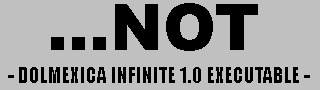
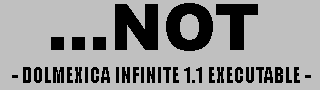
[Release] Dolmexica Infinite Version 1.1

Changed region(s): [[0.0, 0.7333, 0.9375, 0.9333]]

diff --git a/docs/dolmexica.html b/docs/dolmexica.html
@@ -157,7 +157,7 @@ code, tt {
 
 <body>
 
-<center><font size=+3>Dolmexica Infinite<br>1.0</font><br>
+<center><font size=+3>Dolmexica Infinite<br>1.1</font><br>
 <br>
 presented by Dogma 2018-2020<br><br>
 <a href="http://dogmacompany.com">dogmacompany.com</a>
@@ -323,6 +323,7 @@ Technical reference for Dolmexica Infinite.
 <li><a href="storymode.html"><b>Story mode documentation</b></a></li>
 <li><a href="storysctrls.html"><b>Story state controller reference</b></a></li>
 <li><a href="storytrigger.html"><b>Story trigger list</b></a></li>
+<li><a href="storyhelper.html"><b>Story helper documentation</b></a></li>
 <li><a href="trigger.html"><b>Trigger list for new Dolmexica Infinite triggers</b></a></li>
 <li><a href="makeyourowngamedreamcast.html"><b>Make-your-own-game kit for Dreamcast documentation</b></a></li>
 <li><a href="makeyourowngameweb.html"><b>Make-your-own-game kit for Web documentation</b></a></li>

diff --git a/docs/history.html b/docs/history.html
@@ -174,6 +174,19 @@ code, tt {
 <div class="document" id="m-u-g-e-n-update-history">
 <h1 class="title">Dolmexica Infinite Update History</h1>
 <p>Updates shown are in order of most recent to least recent.</p>
+<div class="section" id="new-in-1-1">
+<h1>New in 1.1</h1>
+<p>06 November 2020</p>
+<div class="section" id="general">
+<h2>General updates</h2>
+<ul class="simple">
+<li>Proper Story helpers that can now target players via the override.target parameter and use all player controllers (just set a player target).</li>
+<li>Story helpers can now use player triggers and story triggers.</li>
+<li>Story helpers can be used in stages with the story parameter in the BGDef group.</li>
+<li>Story helper documentation.</li>
+</ul>
+</div>
+</div>
 <div class="section" id="new-in-1-0">
 <h1>New in 1.0</h1>
 <p>16 October 2020</p>

diff --git a/docs/storymode.html b/docs/storymode.html
@@ -174,8 +174,8 @@ code, tt {
 <h1 class="title">Story Mode Reference</h1>
 
 <p>Dolmexica Infinite, presented by Dogma 2018-2020</p>
-<p>Documentation for demo version (2020)</p>
-<p>Updated 01 May 2020</p>
+<p>Documentation for release version (2020)</p>
+<p>Updated 06 November 2020</p>
 <div class="contents topic" id="contents">
 <p class="topic-title first">Contents</p>
 <ul class="simple">
@@ -293,6 +293,10 @@ code, tt {
 <dd>Set optional custom display name for player 1 character.</dd>
 <dt>p2.name = <em>name</em> (string)</dt>
 <dd>Set optional custom display name for player 2 character.</dd>
+<dt>fight.motif = <em>path</em> (string)</dt>
+<dd>Set optional motif to be used in the fight.</dd>
+<dt>storyhelper = <em>path</em> (string)</dt>
+<dd>Set story helper to run in parallel to the fight.</dd>
 </dl>
 </dl>
 </div>

diff --git a/docs/storysctrls.html b/docs/storysctrls.html
@@ -174,8 +174,8 @@ code, tt {
 <h1 class="title">Story State Controller Reference</h1>
 
 <p>Dolmexica Infinite, presented by Dogma 2018-2020</p>
-<p>Documentation for demo version (2020)</p>
-<p>Updated 01 May 2020</p>
+<p>Documentation for release version (2020)</p>
+<p>Updated 06 November 2020</p>
 <div class="contents topic" id="contents">
 <p class="topic-title first">Contents</p>
 <ul class="simple">

diff --git a/docs/sctrls.html b/docs/sctrls.html
@@ -174,8 +174,8 @@ code, tt {
 <h1 class="title">State Controller Reference</h1>
 
 <p>Dolmexica Infinite, presented by Dogma 2018-2020</p>
-<p>Documentation for demo version (2020)</p>
-<p>Updated 01 May 2020</p>
+<p>Documentation for release version (2020)</p>
+<p>Updated 06 November 2020</p>
 <div class="contents topic" id="contents">
 <p class="topic-title first">Contents</p>
 <ul class="simple">

diff --git a/docs/storytrigger.html b/docs/storytrigger.html
@@ -175,8 +175,8 @@ code, tt {
 <h1 class="title">Story Trigger Reference</h1>
 
 <p>Dolmexica Infinite, presented by Dogma 2018-2020</p>
-<p>Documentation for demo version (2020)</p>
-<p>Updated 01 May 2020</p>
+<p>Documentation for release version (2020)</p>
+<p>Updated 06 November 2020</p>
 <div class="contents topic" id="contents">
 <p class="topic-title first">Contents</p>
 <ul class="simple">

diff --git a/docs/trigger.html b/docs/trigger.html
@@ -175,8 +175,8 @@ code, tt {
 <h1 class="title">Trigger Reference</h1>
 
 <p>Dolmexica Infinite, presented by Dogma 2018-2020</p>
-<p>Documentation for demo version (2020)</p>
-<p>Updated 01 May 2020</p>
+<p>Documentation for release version (2020)</p>
+<p>Updated 06 November 2020</p>
 <div class="contents topic" id="contents">
 <p class="topic-title first">Contents</p>
 <ul class="simple">

diff --git a/stage.cpp b/stage.cpp
@@ -20,6 +20,7 @@
 #include "mugenbackgroundstatehandler.h"
 #include "mugensound.h"
 #include "config.h"
+#include "storyhelper.h"
 
 using namespace std;
 
@@ -105,9 +106,8 @@ typedef struct {
 } StageMusic;
 
 typedef struct {
-	char mSpritePath[1024];
+	std::string mSpritePath;
 	int mDebugBG;
-
 } StageBackgroundDefinition;
 
 typedef enum {
@@ -258,7 +258,7 @@ static void loadStageMusic(MugenDefScript* s) {
 	gStageData.mMusic.mBGVolume = getMugenDefIntegerOrDefault(s, "music", "bgvolume", 0);
 }
 
-static MugenDefScriptGroup* loadStageBackgroundDefinitionAndReturnGroup(MugenDefScript* s) {
+static MugenDefScriptGroup* loadStageBackgroundDefinitionAndReturnGroup(const char* tPath, MugenDefScript* s) {
 	MugenDefScriptGroup* bgdef;
 	char name[100];
 	if (stl_string_map_contains_array(s->mGroups, "bgdef")) {
@@ -272,8 +272,20 @@ static MugenDefScriptGroup* loadStageBackgroundDefinitionAndReturnGroup(MugenDef
 
 	bgdef = &s->mGroups[name];
 
-	getMugenDefStringOrDefault(gStageData.mBackgroundDefinition.mSpritePath, s, name, "spr", "");
+	gStageData.mBackgroundDefinition.mSpritePath = getSTLMugenDefStringOrDefault(s, name, "spr", "");
 	gStageData.mBackgroundDefinition.mDebugBG = getMugenDefIntegerOrDefault(s, name, "debugbg", 0);
+	const auto storyPath = getSTLMugenDefStringOrDefault(s, name, "story", "");
+	if (!hasStoryHelper() && !storyPath.empty()) {
+		char path[1024];
+		getPathToFile(path, tPath);
+		if (isFile(path + storyPath))
+		{
+			setStoryHelperPath(path + storyPath);
+		}
+		else {
+			setStoryHelperPath(getDolmexicaAssetFolder() + storyPath);
+		}
+	}
 
 	return bgdef;
 }
@@ -428,9 +440,9 @@ static void loadStageTextures(char* tPath) {
 	char path[1024];
 	getPathToFile(path, tPath);
 	char sffFile[1024];
-	sprintf(sffFile, "%s%s", path, gStageData.mBackgroundDefinition.mSpritePath);
+	sprintf(sffFile, "%s%s", path, gStageData.mBackgroundDefinition.mSpritePath.c_str());
 	if (!isFile(sffFile)) {
-		sprintf(sffFile, "%s%s", getDolmexicaAssetFolder().c_str(), gStageData.mBackgroundDefinition.mSpritePath);
+		sprintf(sffFile, "%s%s", getDolmexicaAssetFolder().c_str(), gStageData.mBackgroundDefinition.mSpritePath.c_str());
 	}
 
 	setMugenSpriteFileReaderToUsePalette(2);
@@ -438,8 +450,8 @@ static void loadStageTextures(char* tPath) {
 	setMugenSpriteFileReaderToNotUsePalette();
 }
 
-static void loadStageBackgroundElements(char* tPath, MugenDefScript* s) {
-	MugenDefScriptGroup* bgdef = loadStageBackgroundDefinitionAndReturnGroup(s);
+static void loadStageBackgroundDefinitionAndElements(char* tPath, MugenDefScript* s) {
+	MugenDefScriptGroup* bgdef = loadStageBackgroundDefinitionAndReturnGroup(tPath, s);
 	if (!bgdef) return;
 
 	loadStageTextures(tPath);
@@ -484,7 +496,7 @@ static void loadStage(void* tData)
 	setDreamMugenStageHandlerCameraCoordinates(Vector2DI(sz.x, sz.y));
 
 	setStageCamera();
-	loadStageBackgroundElements(gStageData.mDefinitionPath, &s);
+	loadStageBackgroundDefinitionAndElements(gStageData.mDefinitionPath, &s);
 	gStageData.mIsCameraManual = 0;
 
 	setBackgroundStatesFromScript(&s);

diff --git a/mugenstatecontrollers.cpp b/mugenstatecontrollers.cpp
@@ -2594,6 +2594,26 @@ static void parseStateControllerPersistence(DreamMugenStateController* tControll
 	tController->mAccessAmount = 0;
 }
 
+static void parseStateControllerTarget(DreamMugenStateController* tController, MugenDefScriptGroup* tGroup) {
+	if (!isMugenDefStringVariableAsGroup(tGroup, "override.target"))
+	{
+		tController->mTarget = MUGEN_STATE_CONTROLLER_TARGET_DEFAULT;
+	}
+	else
+	{
+		const auto value = getSTLMugenDefStringVariableAsGroup(tGroup, "override.target");
+		if (value == "p1") {
+			tController->mTarget = MUGEN_STATE_CONTROLLER_TARGET_PLAYER1;
+		}
+		else if (value == "p2") {
+			tController->mTarget = MUGEN_STATE_CONTROLLER_TARGET_PLAYER2;
+		}
+		else {
+			tController->mTarget = MUGEN_STATE_CONTROLLER_TARGET_DEFAULT;
+		}
+	}
+}
+
 int gDebugStateControllerAmount;
 
 DreamMugenStateController * parseDreamMugenStateControllerFromGroup(MugenDefScriptGroup* tGroup)
@@ -2603,6 +2623,7 @@ DreamMugenStateController * parseDreamMugenStateControllerFromGroup(MugenDefScri
 	parseStateControllerType(ret, tGroup);
 	parseStateControllerTriggers(ret, tGroup);
 	parseStateControllerPersistence(ret, tGroup);
+	parseStateControllerTarget(ret, tGroup);
 
 	return ret;
 }

diff --git a/mugenassignmentevaluator.cpp b/mugenassignmentevaluator.cpp
@@ -2886,8 +2886,8 @@ static AssignmentReturnValue* evaluateAssignmentStart(DreamMugenAssignment** tAs
 	return ret;
 }
 
-static AssignmentReturnValue* stateNoStoryFunction(DreamPlayer* tPlayer) { return makeNumberAssignmentReturn(getDolmexicaStoryStateNumber((StoryInstance*)tPlayer)); }
-static AssignmentReturnValue* timeStoryFunction(DreamPlayer* tPlayer) { return makeNumberAssignmentReturn(getDolmexicaStoryTimeInState((StoryInstance*)tPlayer)); }
+static AssignmentReturnValue* stateNoStoryFunction(DreamPlayer* /*tPlayer*/) { return makeNumberAssignmentReturn(getDolmexicaStoryStateNumber(getDolmexicaStoryRootInstance())); }
+static AssignmentReturnValue* timeStoryFunction(DreamPlayer* /*tPlayer*/) { return makeNumberAssignmentReturn(getDolmexicaStoryTimeInState(getDolmexicaStoryRootInstance())); }
 
 static void setupStoryVariableAssignments() {
 	gVariableHandler.mVariables.clear();

diff --git a/mugenstatehandler.cpp b/mugenstatehandler.cpp
@@ -64,7 +64,20 @@ static void updateSingleController(void* tCaller, void* tData) {
 		if (testValue) return;
 	}
 
-	caller->mHasChangedState = handleDreamMugenStateControllerAndReturnWhetherStateChanged(controller, caller->mRegisteredState->mPlayer);
+	DreamPlayer* target;
+	switch (controller->mTarget)
+	{
+	case MUGEN_STATE_CONTROLLER_TARGET_PLAYER1:
+		target = getRootPlayer(0);
+		break;
+	case MUGEN_STATE_CONTROLLER_TARGET_PLAYER2:
+		target = getRootPlayer(1);
+		break;
+	default:
+		target = caller->mRegisteredState->mPlayer;
+	}
+
+	caller->mHasChangedState = handleDreamMugenStateControllerAndReturnWhetherStateChanged(controller, target);
 }
 
 static DreamMugenStates* getCurrentStateMachineStates(RegisteredMugenStateMachine* tRegisteredState) {

diff --git a/titlescreen.cpp b/titlescreen.cpp
@@ -326,9 +326,9 @@ static void loadCredits() {
 	setAnimationSize(gTitleScreenData.mCreditBGAnimationElement, Vector3D(320, 20, 1), Vector3D(0, 0, 0));
 	setAnimationColor(gTitleScreenData.mCreditBGAnimationElement, 0, 0, 0.5);
 
-	gTitleScreenData.mLeftCreditTextID = addMugenText("Dolmexica Infinite 1.0", Vector3D(0, 240, 51), -1);
+	gTitleScreenData.mLeftCreditTextID = addMugenText("Dolmexica Infinite 1.1", Vector3D(0, 240, 51), -1);
 	
-	gTitleScreenData.mRightCreditTextID = addMugenText("10/16/20 Presented by Dogma", Vector3D(320, 240, 51), -1);
+	gTitleScreenData.mRightCreditTextID = addMugenText("11/06/20 Presented by Dogma", Vector3D(320, 240, 51), -1);
 	setMugenTextAlignment(gTitleScreenData.mRightCreditTextID, MUGEN_TEXT_ALIGNMENT_RIGHT);
 }
 
